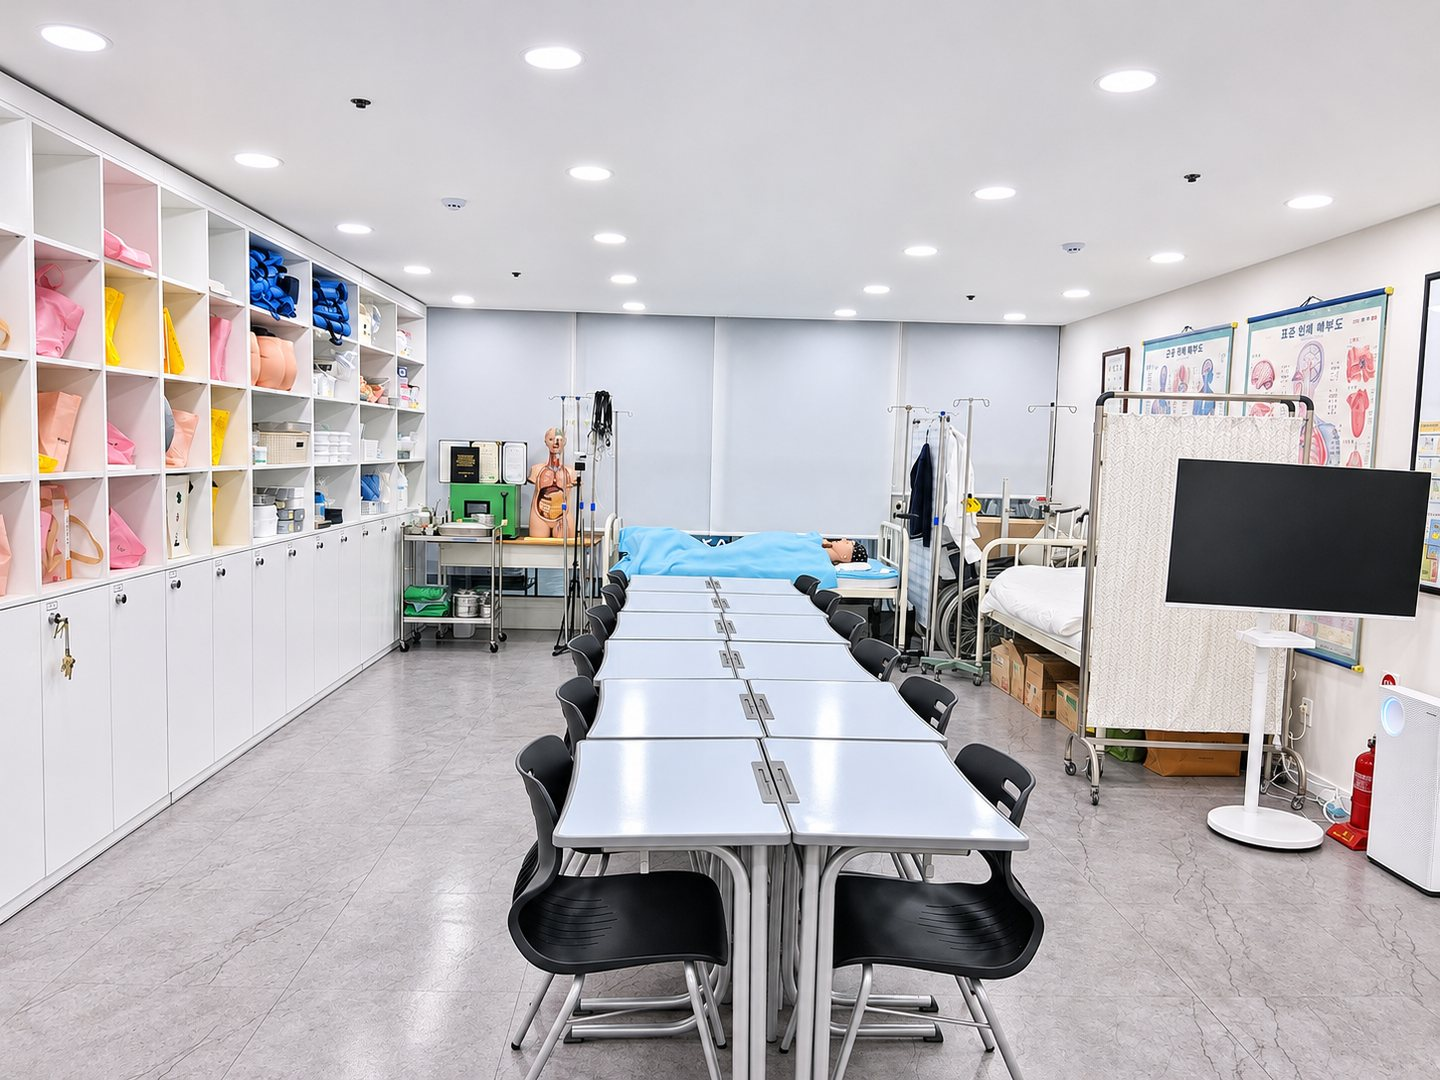
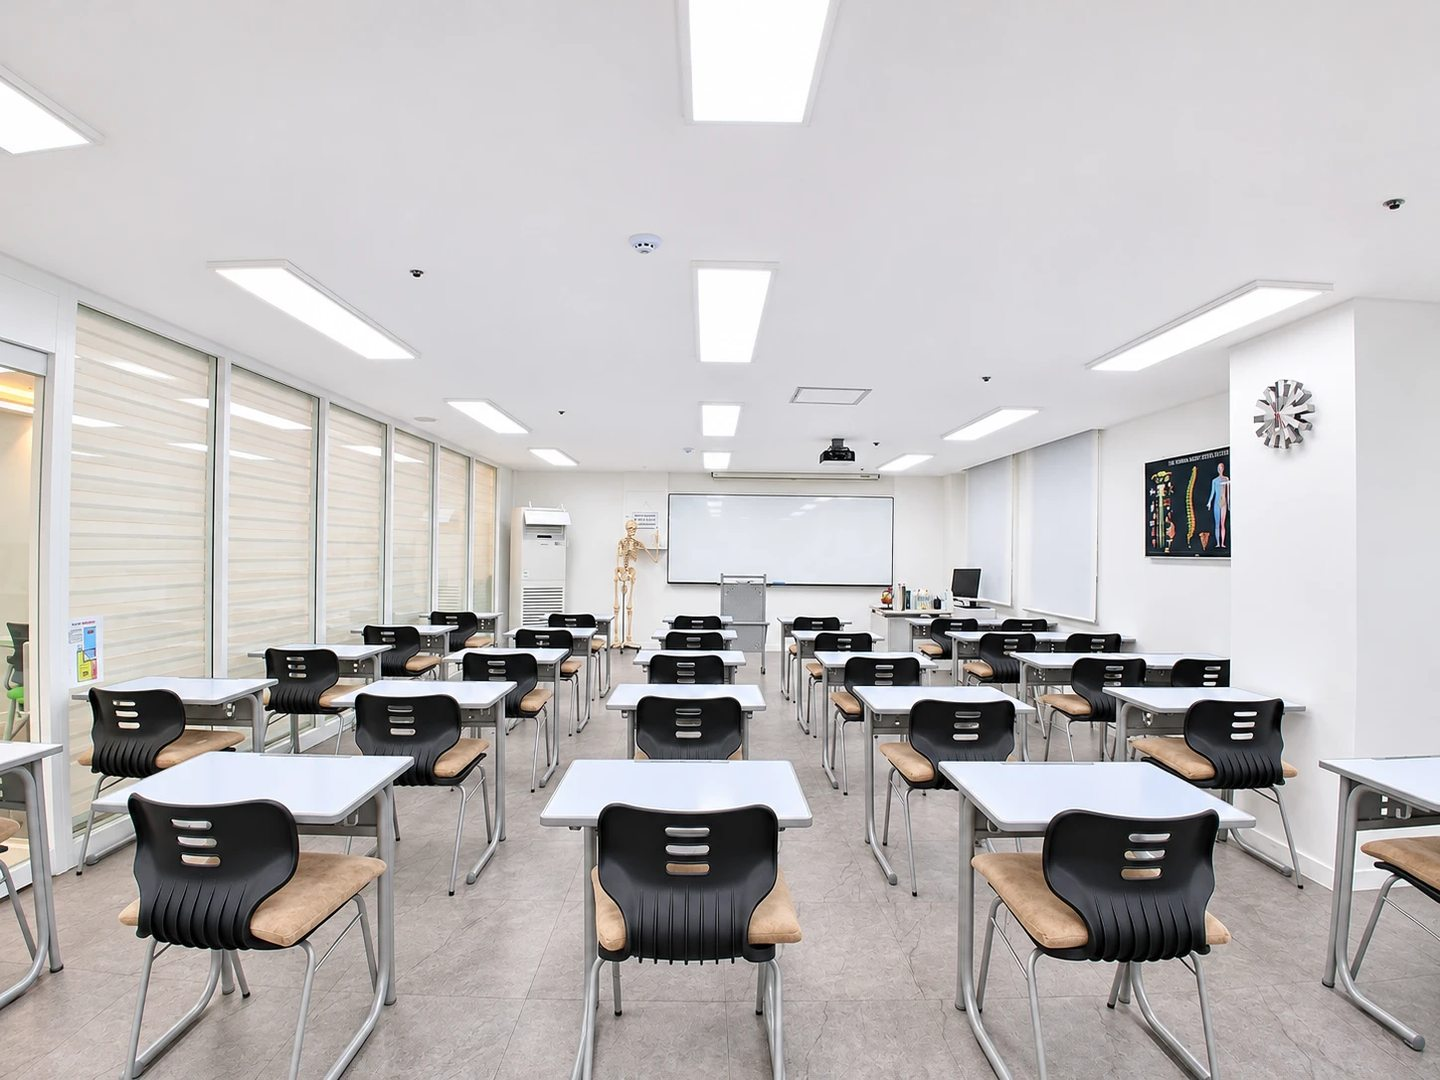
송내점 시설 사진 첫 장을 강의실 사진으로 교체
Claude-Session: https://claude.ai/code/session_01Ncw93M7Ca5tKNkF6CgWDxJ

diff --git a/songnae/index.html b/songnae/index.html
@@ -85,7 +85,7 @@
         </div>
         <div class="bp-gallery" aria-label="송내점 시설 사진">
           <ul class="bp-gallery-track">
-            <li><img src="../assets/img/branches/songnae/gallery-1.jpg" alt="송내점 시설 사진 1" loading="lazy" width="1440" height="1080"></li>
+            <li><img src="../assets/img/branches/songnae/gallery-1.jpg?v=2" alt="송내점 강의실 사진" loading="lazy" width="1440" height="1080"></li>
             <li><img src="../assets/img/branches/songnae/gallery-2.jpg" alt="송내점 시설 사진 2" loading="lazy" width="1440" height="1080"></li>
             <li><img src="../assets/img/branches/songnae/gallery-3.jpg" alt="송내점 시설 사진 3" loading="lazy" width="1440" height="1080"></li>
             <li><img src="../assets/img/branches/songnae/gallery-4.jpg" alt="송내점 시설 사진 4" loading="lazy" width="1440" height="1080"></li>
